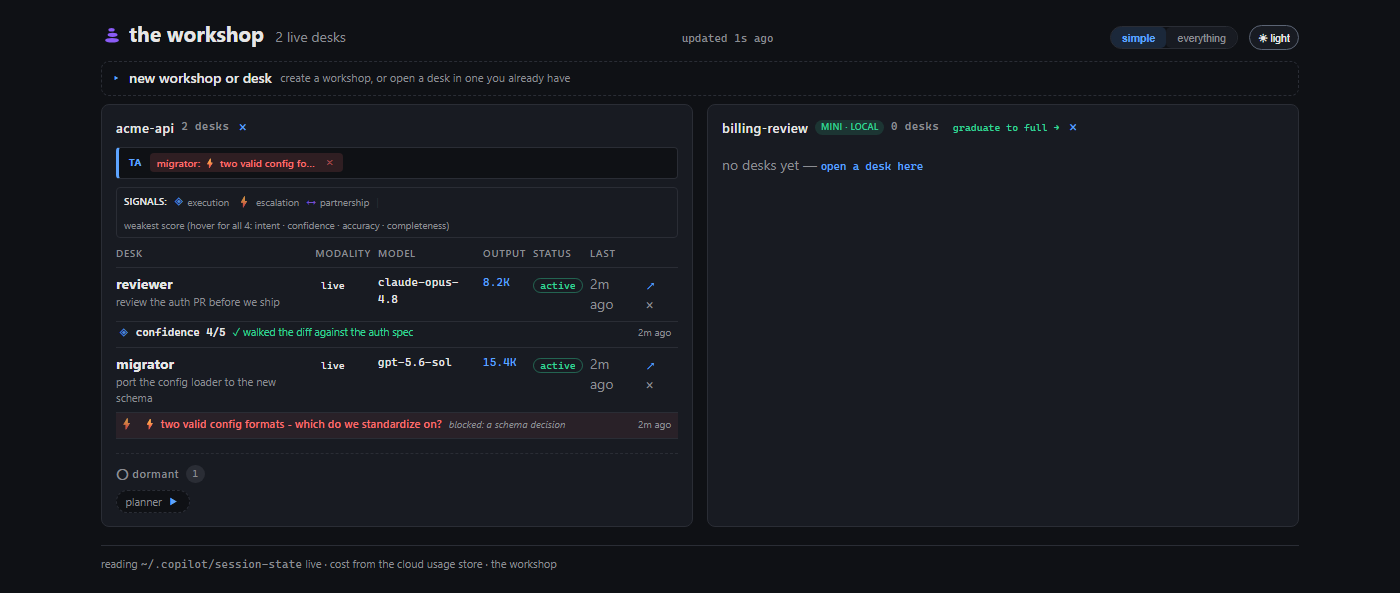
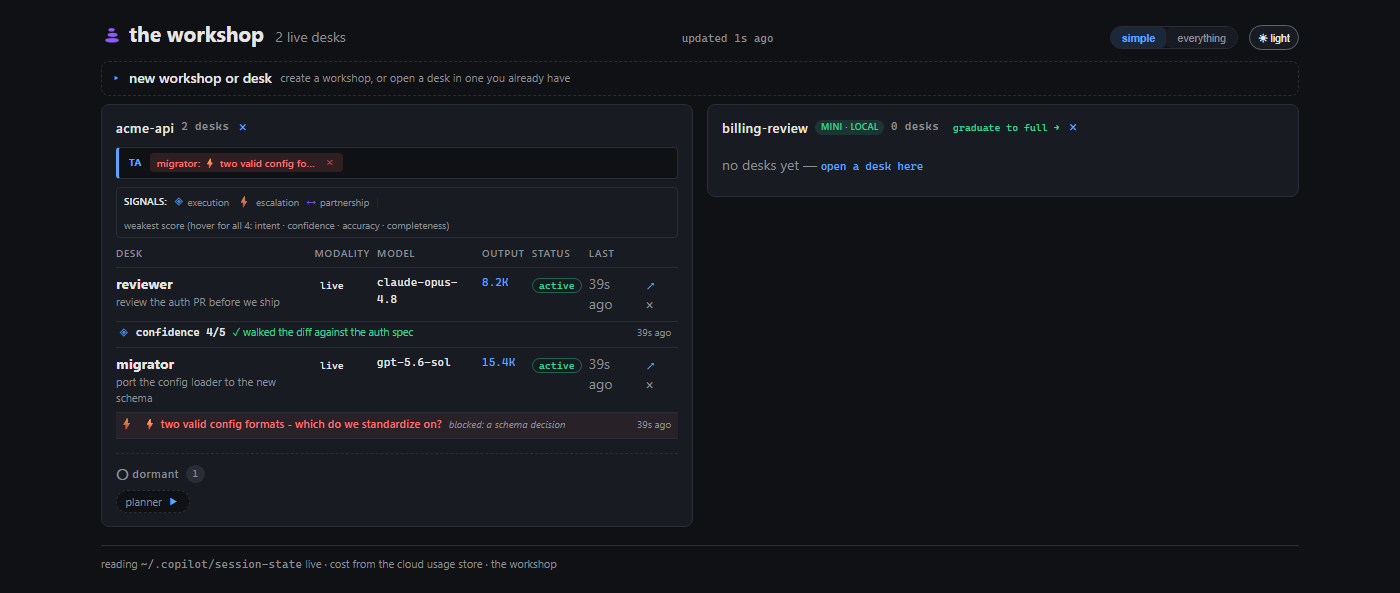
Workshop is public: link the repo, refresh the board, align the hook
The workshop repo went public, so the landing page now links
github.com/jennyf19/the-workshop, swaps the "incubating" status for an
open-source "Get it" section, aligns the hook with the repo's tagline
("stop being the switchboard"), and uses the current board screenshot.

Changed region(s): [[0.215, 0.425, 0.43, 0.4857], [0.2764, 0.6071, 0.43, 0.6374], [0.215, 0.6071, 0.2457, 0.6374]]

diff --git a/workshop/README.md b/workshop/README.md
@@ -1,8 +1,10 @@
 # The Workshop
 
-> Run a room of agents, not one at a time. What persists when the model changes
-> isn't the agent — it's the room: the shared work, the memory, and the way a
-> desk stands.
+> Stop being the switchboard between your AI agents — direct a team. What
+> persists when the model changes isn't the agent; it's the room: the shared
+> work, the memory, and the way a desk stands.
+
+**Open source · [github.com/jennyf19/the-workshop](https://github.com/jennyf19/the-workshop)** — a .NET 10 dashboard over your local Copilot CLI sessions. Run `Start.bat` and you have a board.
 
 ---
 
@@ -147,11 +149,13 @@ Skills (input)  →  A room of desks does the work  →  Signals (output)
 
 ---
 
-## Status
+## Get it
 
-The workshop is **incubating**. The idea — a room of long-running agents with
-memory, signals, and an operator who directs instead of relays — is what this
-page is for; the app ships when the story is ready.
+The workshop is **open source**. The app, the docs, and a 2-minute
+getting-started walkthrough live at
+[**github.com/jennyf19/the-workshop**](https://github.com/jennyf19/the-workshop).
+It builds and runs today — a .NET 10 Blazor dashboard over your local Copilot
+CLI sessions; run `Start.bat` and you have a board.
 
 Follow along: [**The Wow Signal**](https://jenny424241.substack.com) — ongoing
 experiments in human-AI co-creation.